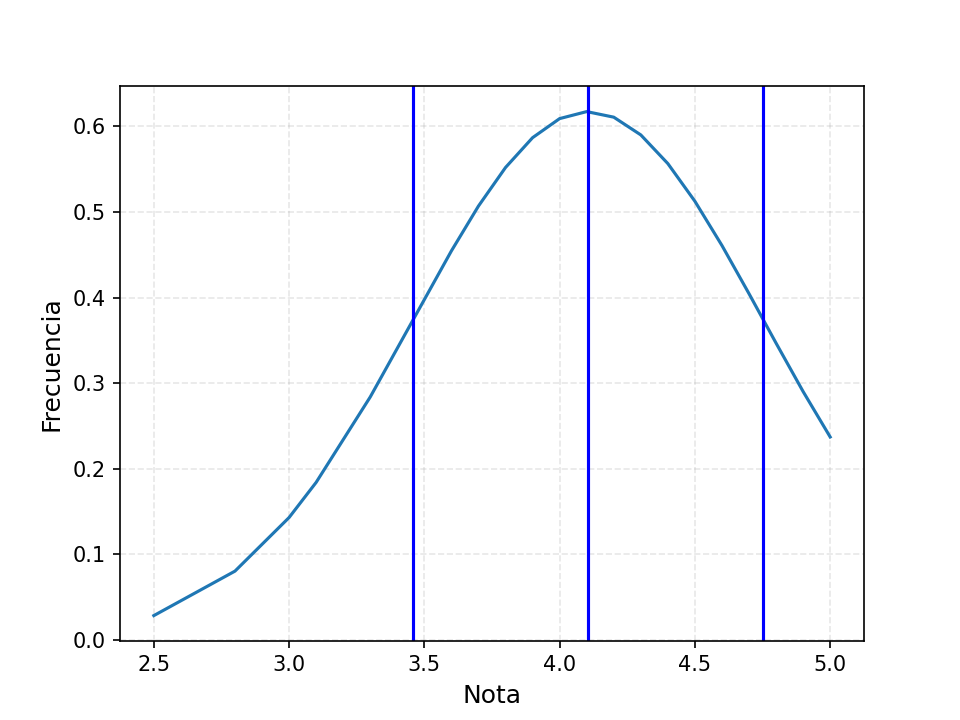
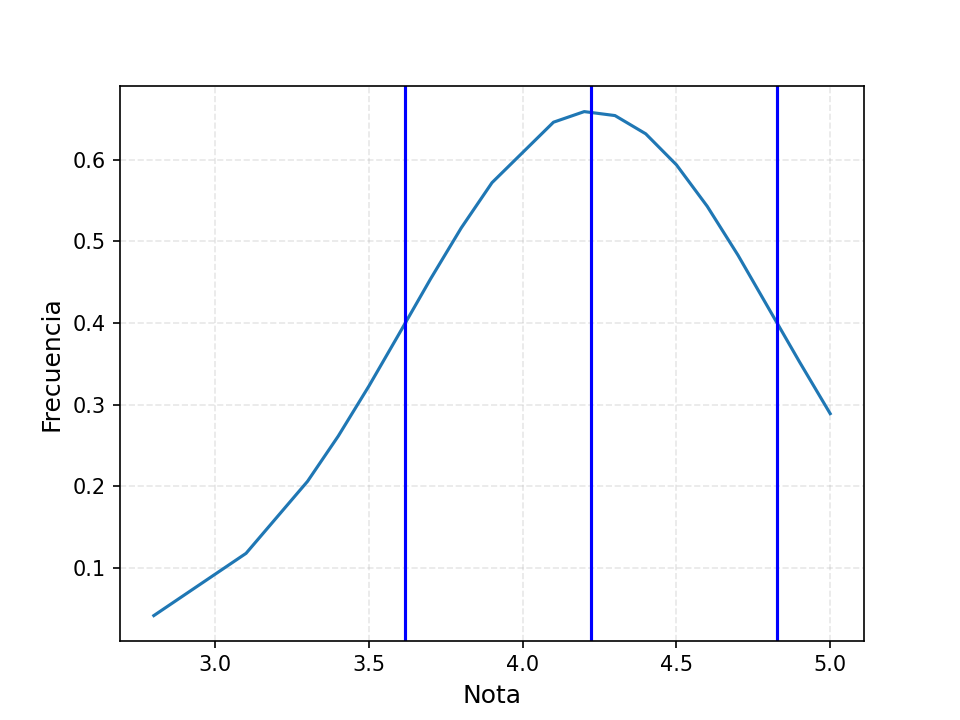
Parcial vida 03 Jun fix 2

diff --git a/modules/informe_grupal.py b/modules/informe_grupal.py
@@ -27,10 +27,9 @@ def generarInformeGrupal(data, respuestas, respuestas_totales, datos_examen, res
     total_grupo = data["codigo"].values.shape[0]
 
     count = 0
-    promedio_preg = np.zeros(respuestas.shape[1])
+    promedio_preg = np.zeros(respuestas.shape[1], dtype=float)
     examen = dict()
     resultados_estudiantes = []
-    total_respondidas_examen = np.zeros(respuestas.shape[1])
     respondidas_preguntas = []
     for i in range(respuestas.shape[1]):
         respondidas_preguntas.append([])
@@ -67,19 +66,19 @@ def generarInformeGrupal(data, respuestas, respuestas_totales, datos_examen, res
             cnt_preg+=1
         count+=1
         #Expandir a 20 preguntas
-        examen_general_estudiante = np.zeros(respuestas.shape[1])
-        examen_general_estudiante[codificacion_preguntas] = examen_por_estudiante
-        total_respondidas_examen[codificacion_preguntas] += 1
+        examen_general_estudiante = np.full(respuestas.shape[1],float("nan"))
+        examen_general_estudiante[codificacion_preguntas[int(tipo_examen)]] = examen_por_estudiante
         examen[cod] = (int(tipo_examen), examen_general_estudiante)
         resultados_estudiantes.append(examen_general_estudiante)
 
     resultados_estudiantes = np.array(resultados_estudiantes)
     #Calcular promedio por pregunta
+
     for i in range(promedio_preg.shape[0]):
-        if total_respondidas_examen[i] == 0:
+        if len(respondidas_preguntas[i]) == 0:
             promedio_preg[i] = 0
         else:
-            promedio_preg[i] /= total_respondidas_examen[i]
+            promedio_preg[i] = np.average(respondidas_preguntas[i])
 
     std_preg = np.zeros(respuestas.shape[1])
     #Calcular la desviación estandar por pregunta
@@ -103,8 +102,6 @@ def generarInformeGrupal(data, respuestas, respuestas_totales, datos_examen, res
     pdf.text(125, 80, "Promedio: " + str(round(final_mean, 2)))
     pdf.text(125, 86, "Deviación estandar: " + str(round(final_std, 2)))
     pdf.text(125, 92, "Nota del 66.3% del grupo: " + "[" + str(round(final_mean-final_std, 2)) +" , " + str(round(final_mean+final_std, 2)) +"]")
-
-
     pdf.set_font("Times", "B", 16)
     pdf.text(45, 150, "Resultados de aprendizaje del examen " )
 
@@ -134,8 +131,8 @@ def generarInformeGrupal(data, respuestas, respuestas_totales, datos_examen, res
         pdf.text(10, 165 + y, " Promedio: " + str(round(value * 5, 2)))
         pdf.text(70, 165 + y, "Dev estándar: " + str(round(dstd * 5, 2)))
         y += movy
-
-    y = 200
+    
+    y += 135
     pdf.text(10, 35 + y, "Anotaciones:")
     y += movy
     pdf.text(10, 35 + y, "Los temas que tienen menor promedio y mayor desviación estándar son los de mayor dificultad")
@@ -178,12 +175,13 @@ def generarInformeGrupal(data, respuestas, respuestas_totales, datos_examen, res
             pdf.line(40, 76 + pos, 40, 68 + pos)
             pdf.text(57, 74 + pos, str(len(respondidas_preguntas[cnt])))
             pdf.line(78, 76 + pos, 78, 68 + pos)
-            pdf.text(71 + 20, 74 + pos, str(round(5*preg.mean(),2)))
+            correcta = np.nanmean(preg)
+            pdf.text(71 + 20, 74 + pos, str(round(5*correcta,2)))
             pdf.line(112, 76 + pos, 112, 68 + pos)
-            pdf.text(110 + 20, 74 + pos, str(round(5*preg.std(),2)))
+            pdf.text(110 + 20, 74 + pos, str(round(5*np.nanstd(preg),2)))
             pdf.line(155, 76 + pos, 155, 68 + pos)
 
-            correcta = preg.mean()
+        
             
 
             pdf.line(5, 76 + pos, 200, 76 + pos)

diff --git a/modules/procesar.py b/modules/procesar.py
@@ -85,6 +85,6 @@ def procesar(num_correctas, num_examenes, codificacion_examenes, materia, fecha,
             if valor_pregunta < 0:
                 valor_pregunta = 0
             correctas += valor_pregunta
-        dataPreguntas.append([correctas, round(correctas*5.0/num_correctas,1) if (correctas/num_correctas <= 1) else 5.0])
+        dataPreguntas.append([float(correctas), round(correctas*5.0/num_correctas,1) if (correctas/num_correctas <= 1) else 5.0])
     data[["correctas", "nota"]] = dataPreguntas
     return data, respuestas_csv, respuestas_totales, datos_examen, estudiantes_tipo_examen, estudiantes, consolidado

diff --git a/modules/informe_docente.py b/modules/informe_docente.py
@@ -1,7 +1,7 @@
 def generarInformeDocente(data, estudiantes):
 	#Informe del profesor (csv con notas)
 	data_output = estudiantes.copy()
-	data_output["correctas"] = 0
+	data_output["correctas"] = 0.0
 	data_output["nota"] = 0.0
 	for idx, row in data_output.iterrows():
 		codEstudiante = row["codigo"]
